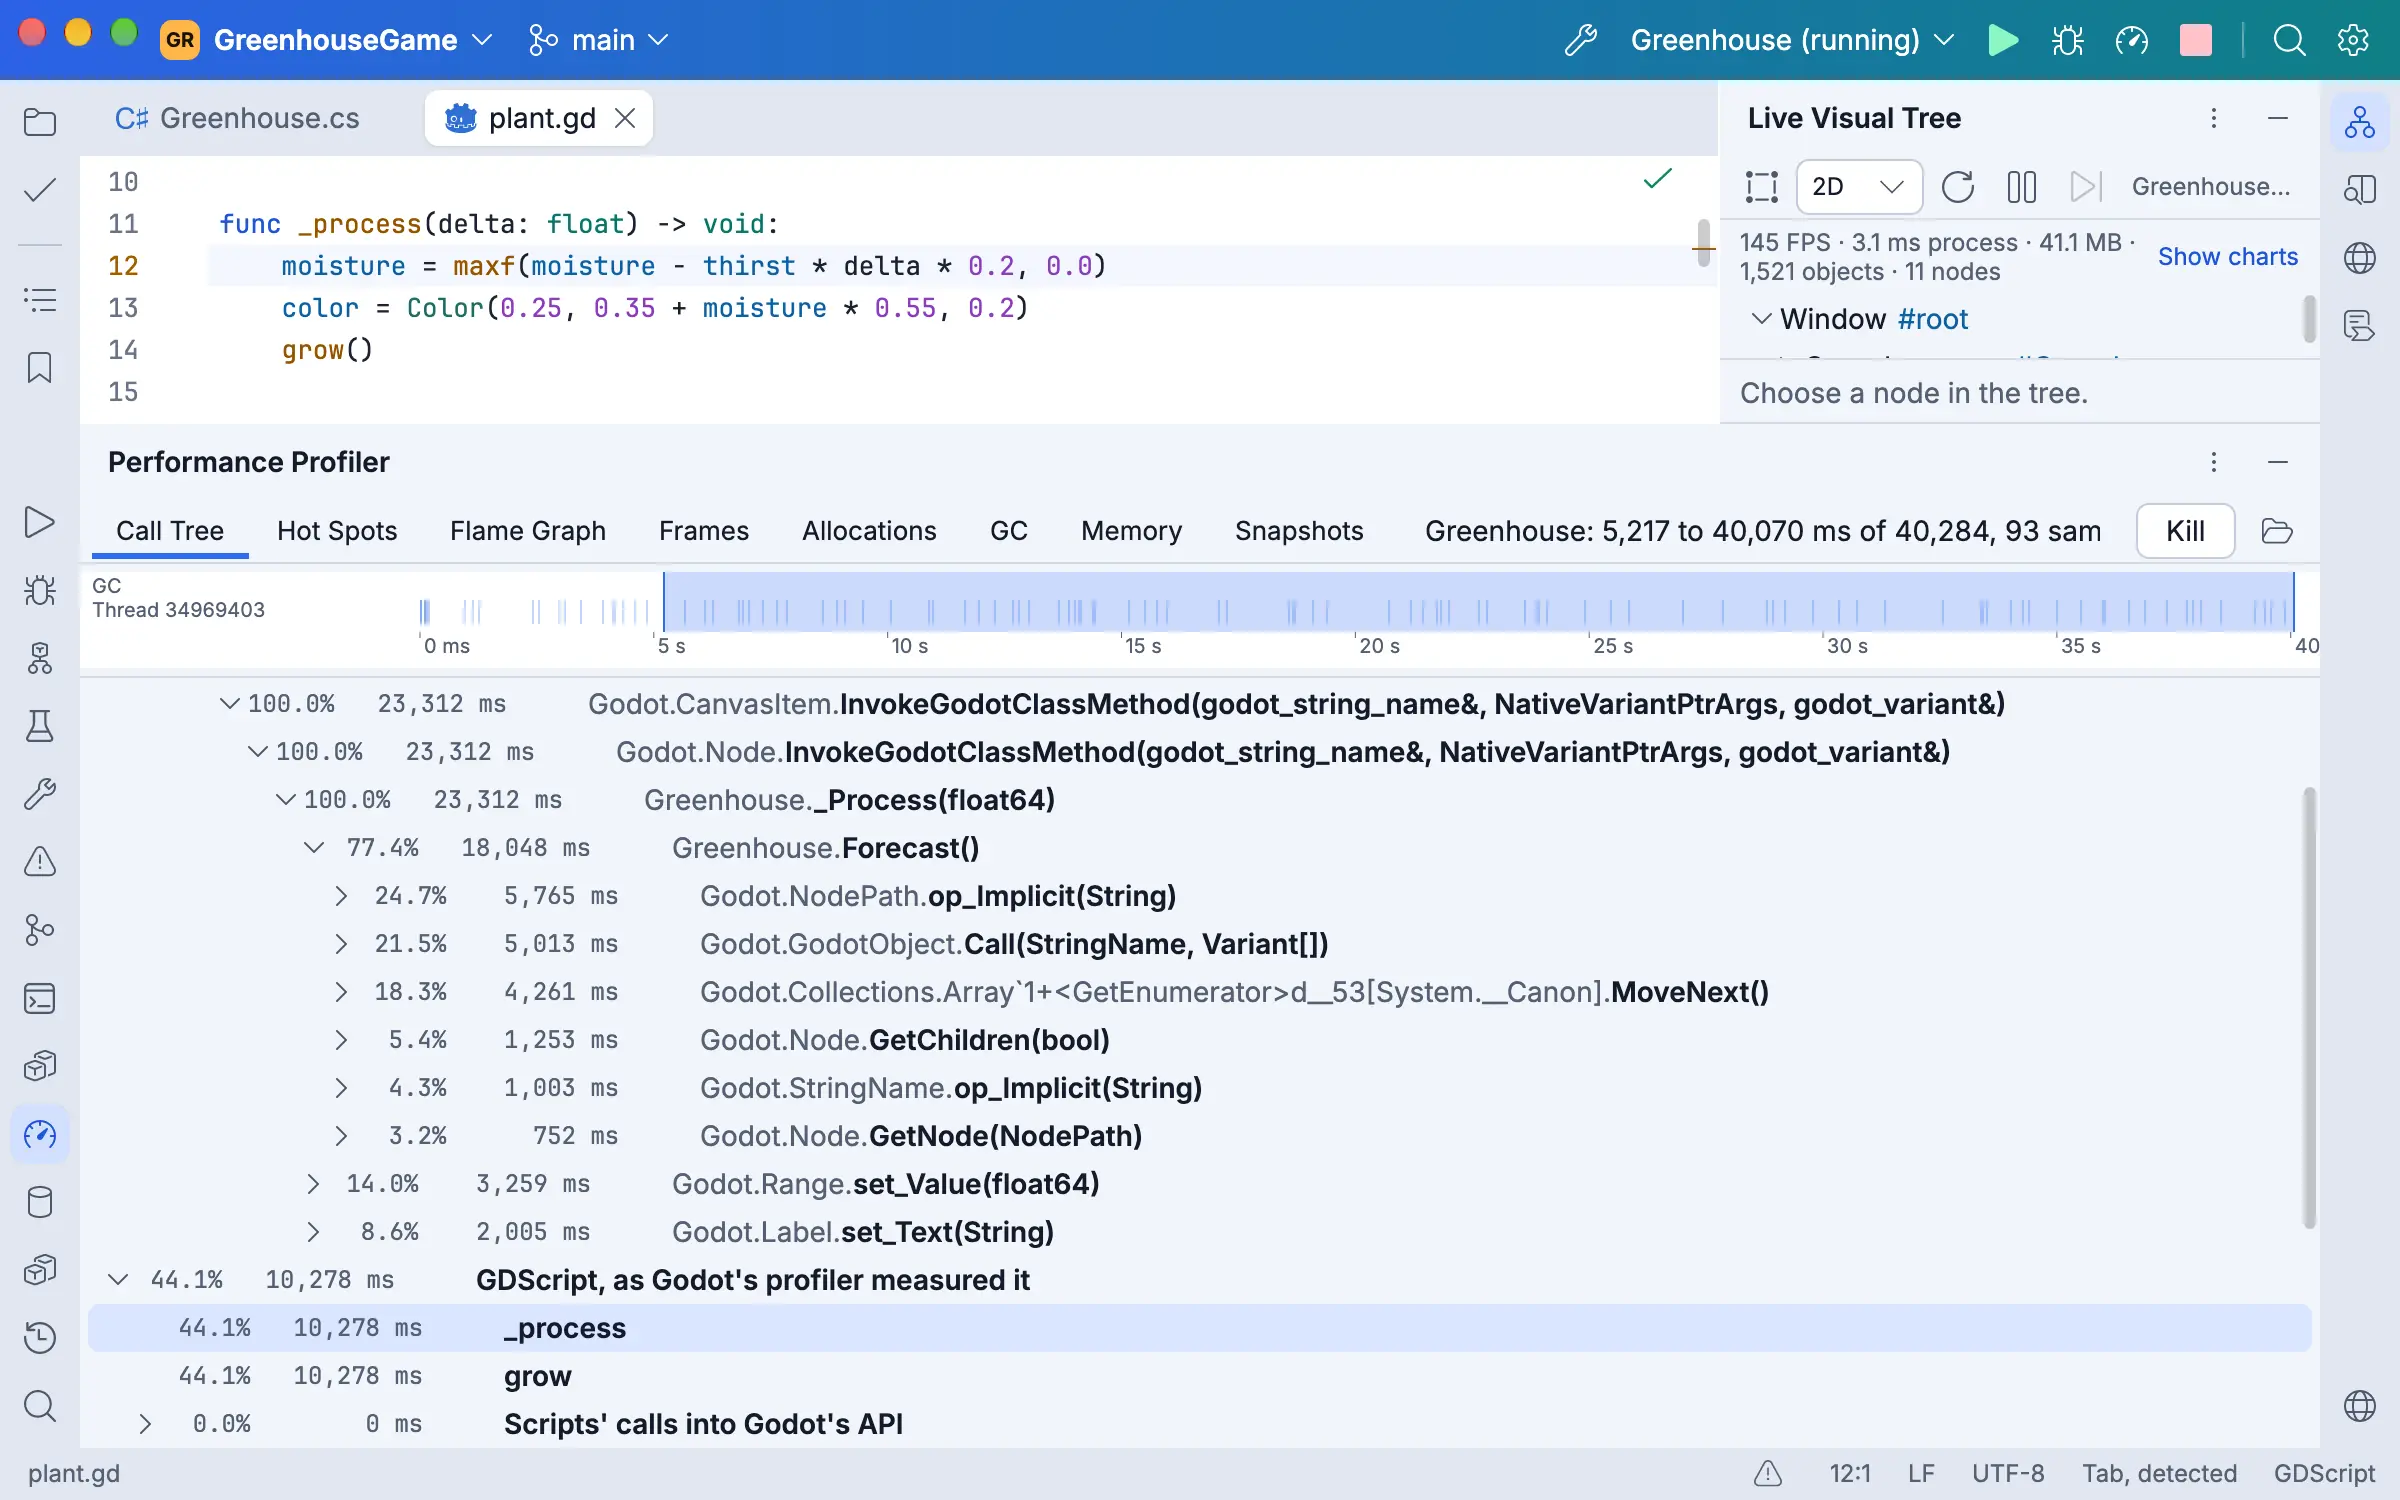
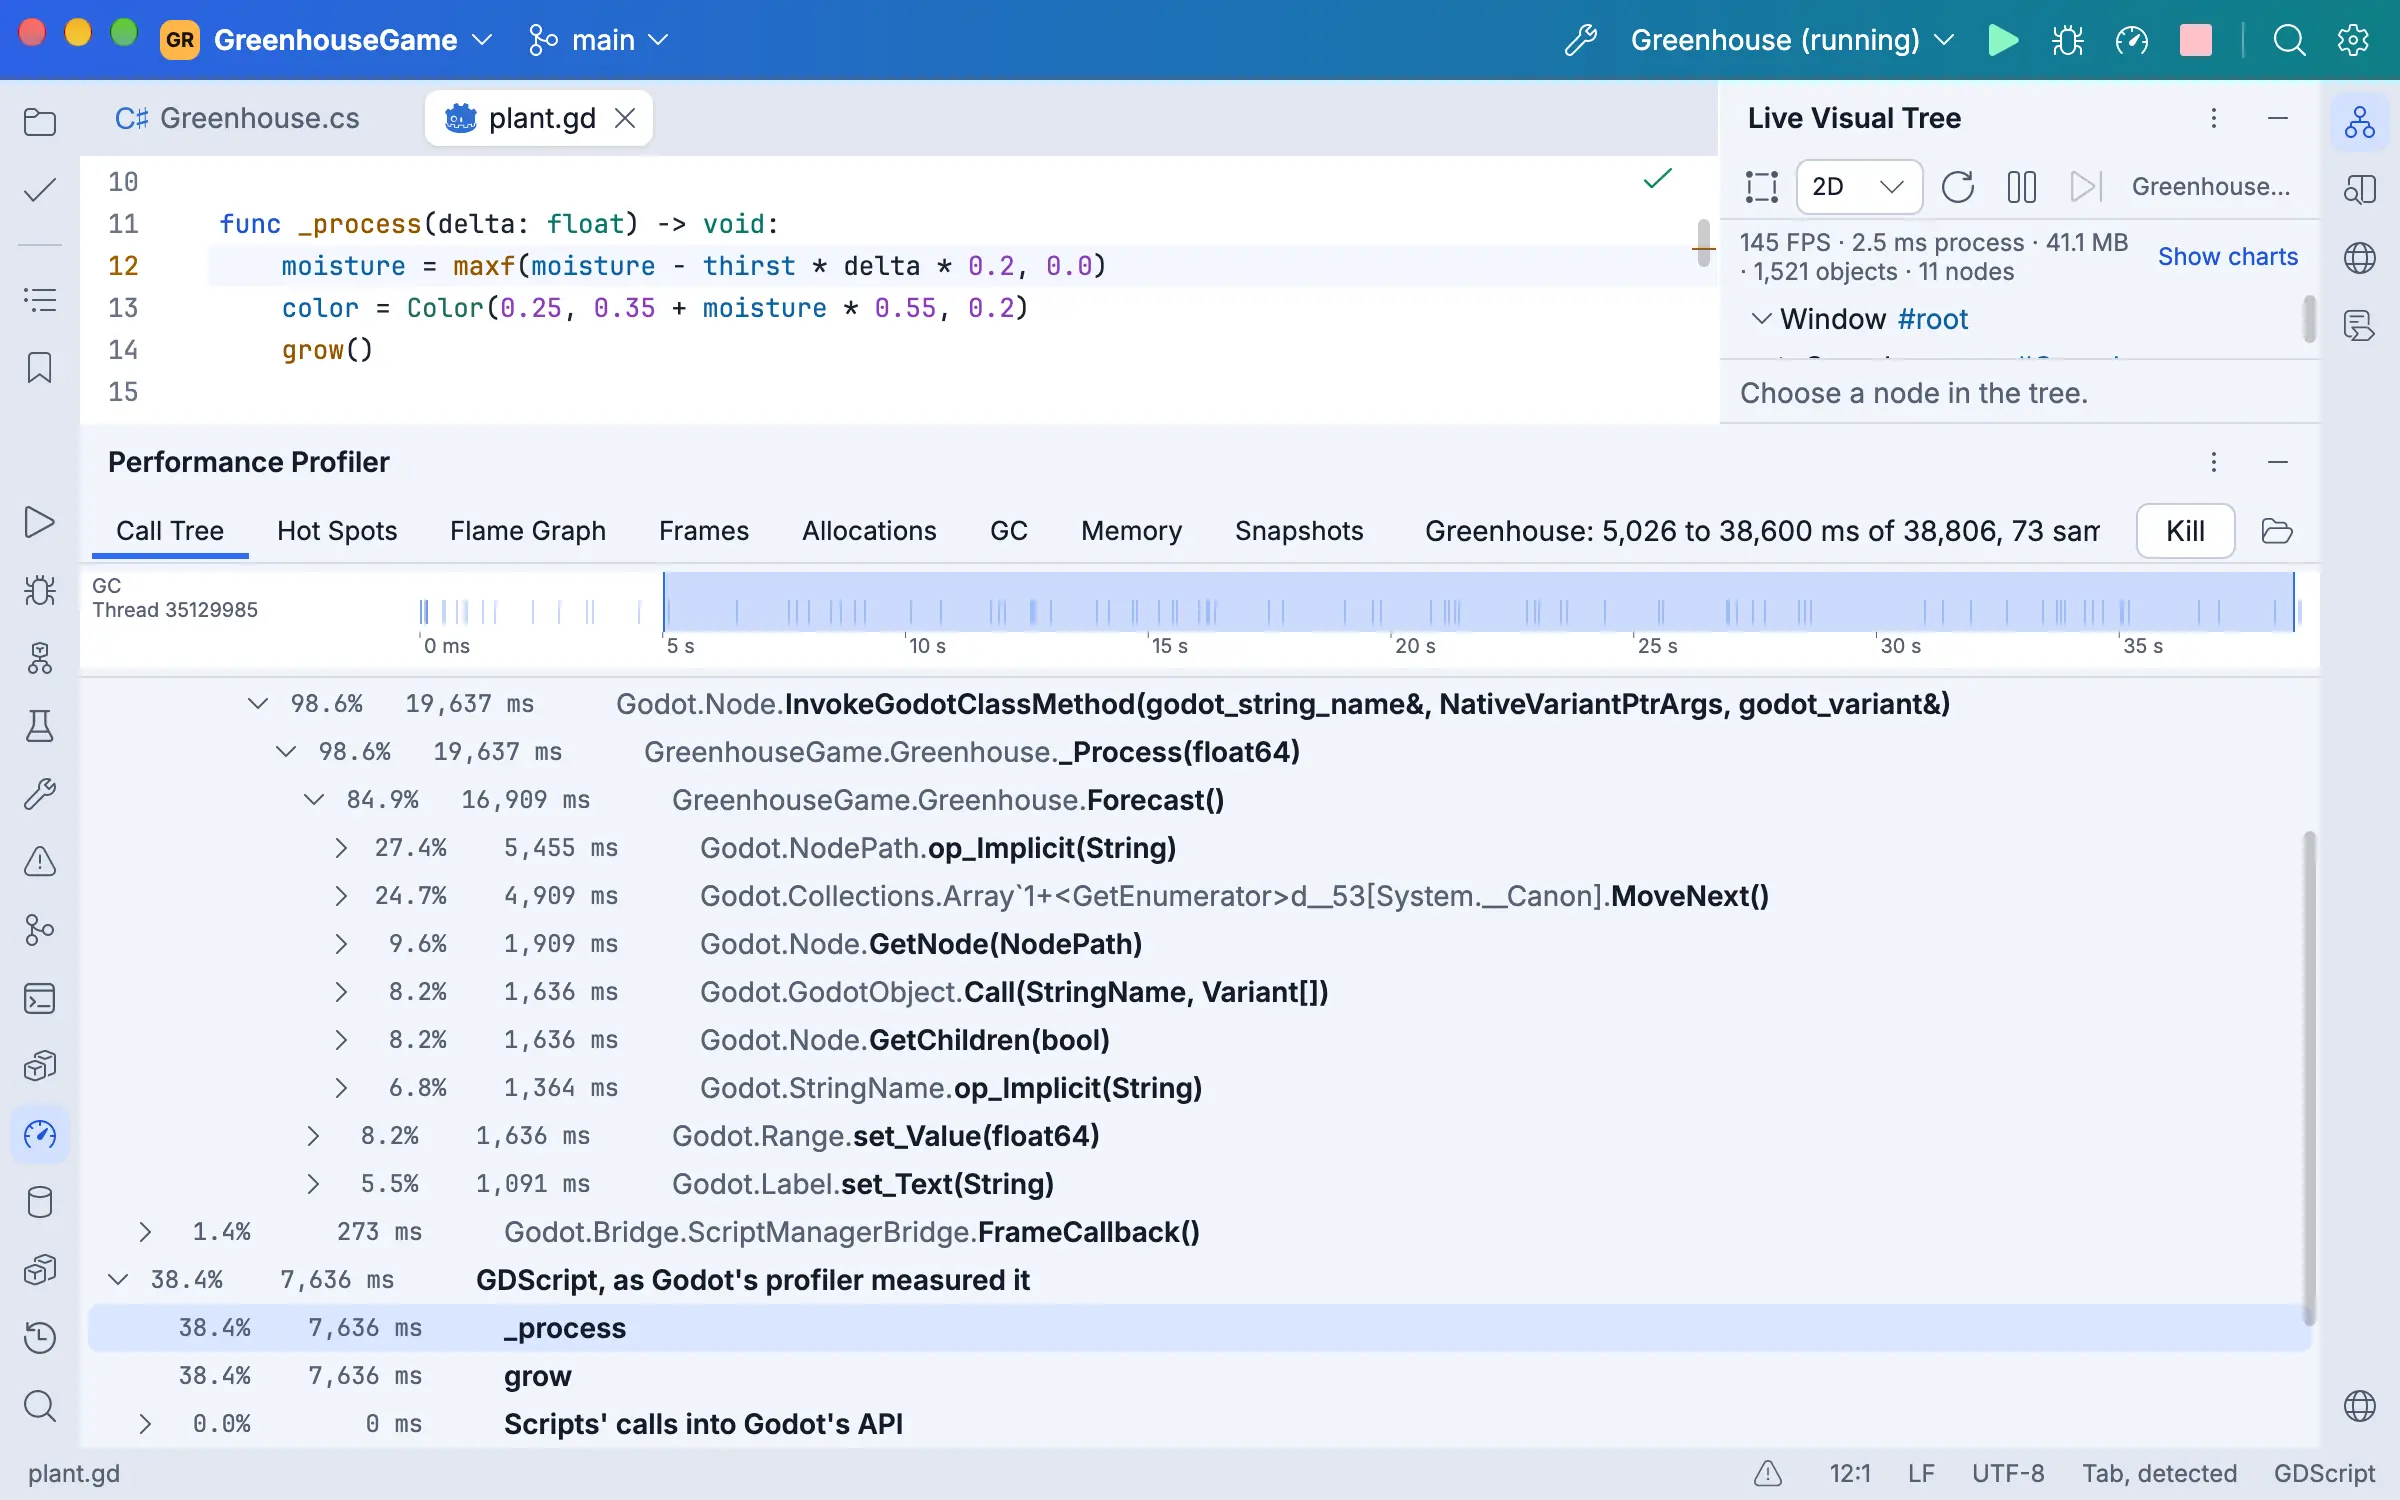
The site's Godot pictures are taken again, the game's C# carrying no mark (#1171). Greenhouse.cs had CA1050's "Declare types in namespaces" under its class name, a real suggestion of .NET's analyzers, since the class was in no namespace: the sample's game now declares GreenhouseGame, its using Godot
Claude-Session: https://claude.ai/code/session_01GGn3U8Whdfjw7qqRtgmQLz

diff --git a/tools/site-shots/godot/Greenhouse.cs b/tools/site-shots/godot/Greenhouse.cs
@@ -1,4 +1,4 @@
-using Godot;
+namespace GreenhouseGame;
 
 /// <summary>The greenhouse: its rain tank, the day it is, and the sprinkler that waters the benches each morning.</summary>
 public partial class Greenhouse : Node2D
